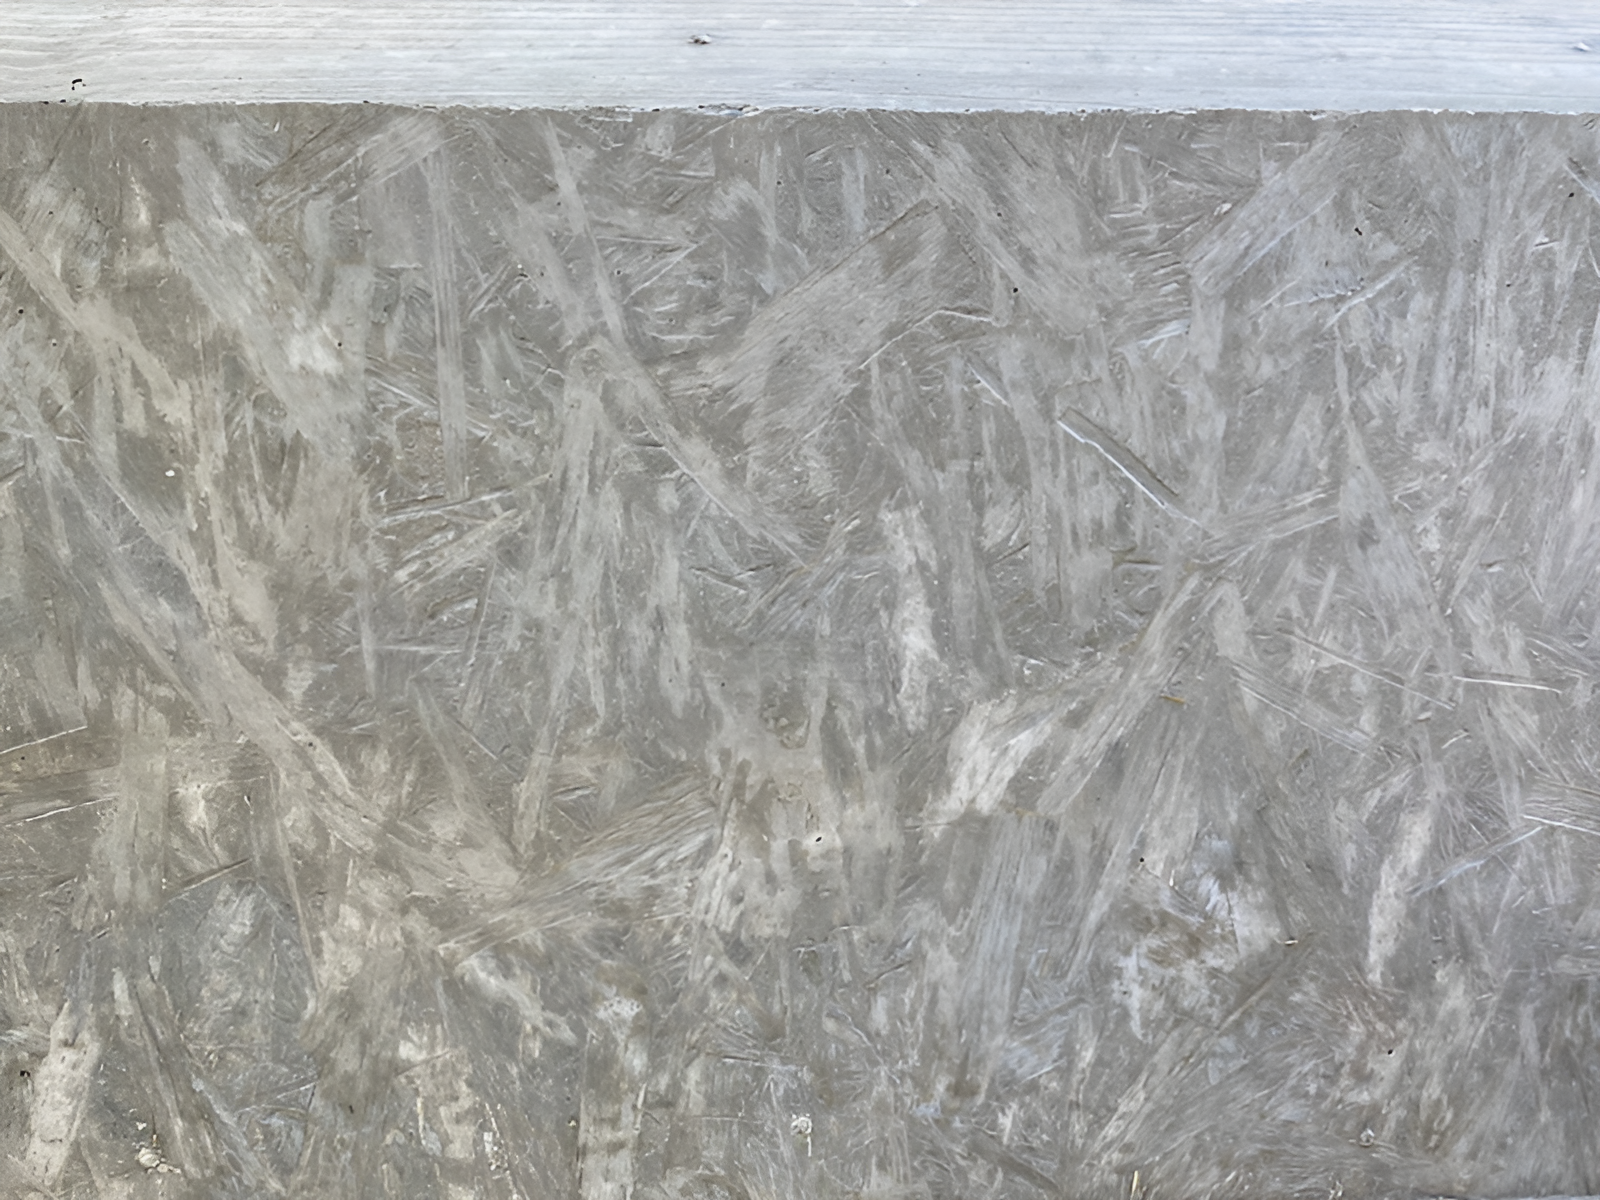
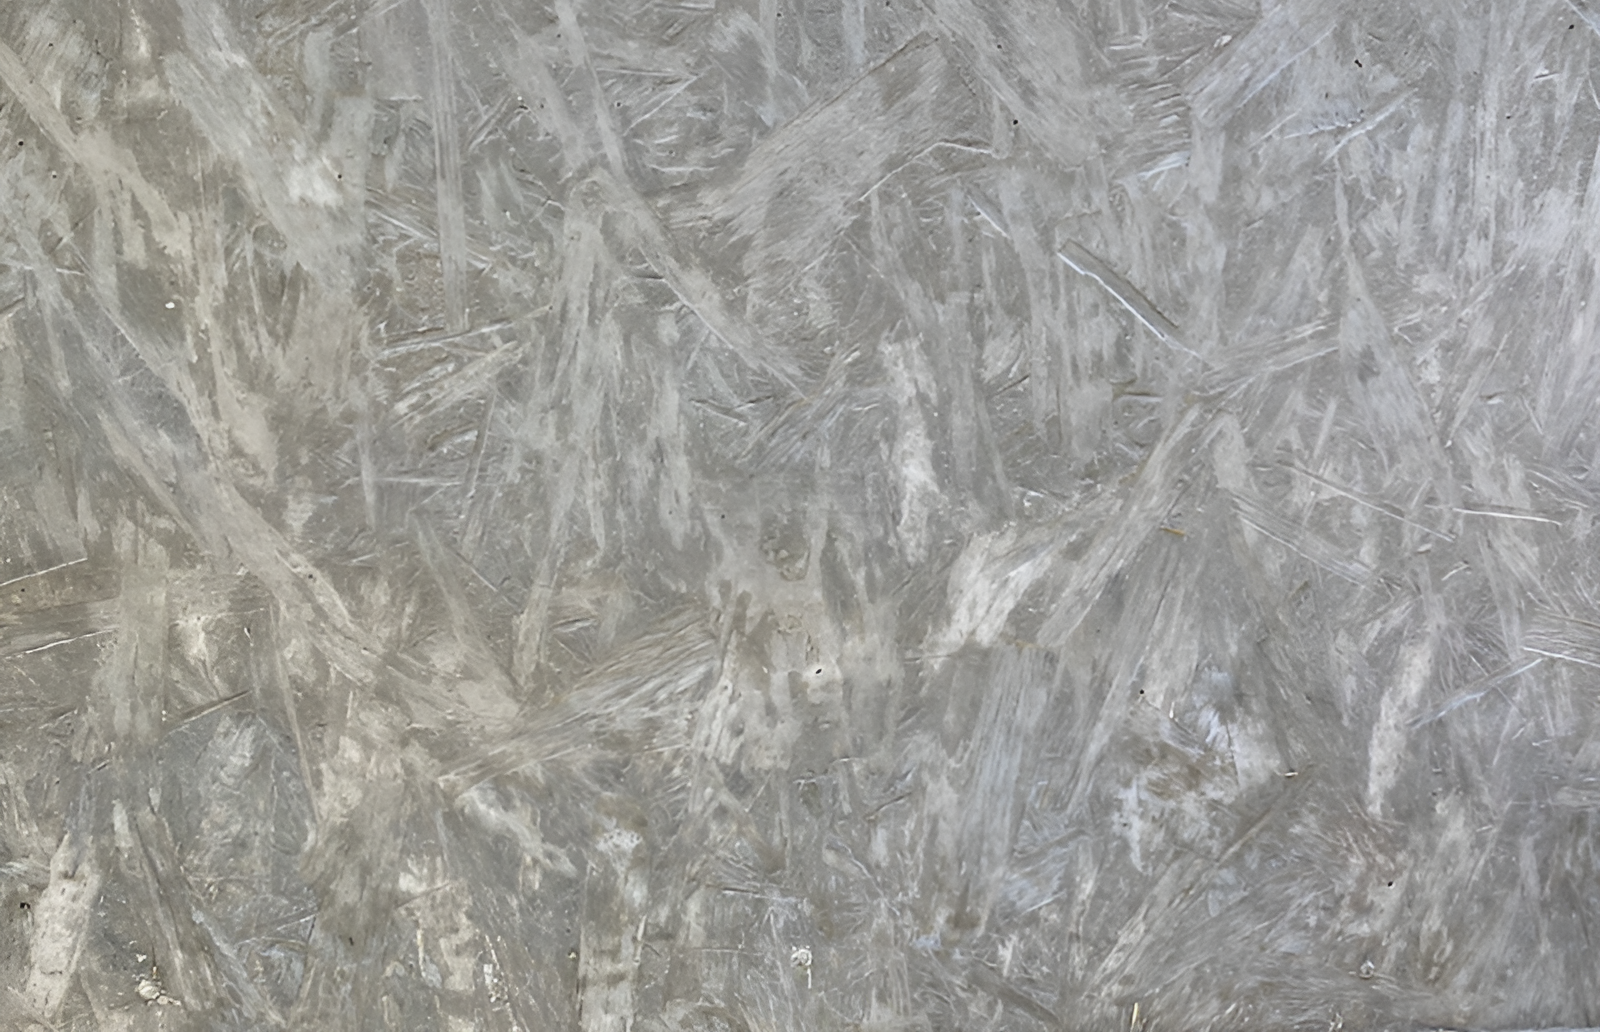
Hero heller + Raster entfernt, GMK-Foto Breitformat (scharf), OSB-Kachel ohne weissen Streifen

diff --git a/index.html b/index.html
@@ -42,8 +42,8 @@ tailwind.config = {
   .h-display{font-family:'Archivo',sans-serif;font-weight:900;letter-spacing:-.03em;line-height:.94;}
   .lab{font-family:'IBM Plex Mono',monospace;letter-spacing:.18em;text-transform:uppercase;}
   .hero-scrim{background:
-     linear-gradient(90deg, rgba(14,15,18,.80) 0%, rgba(14,15,18,.52) 34%, rgba(14,15,18,.10) 62%, rgba(14,15,18,0) 100%),
-     linear-gradient(0deg, rgba(14,15,18,.82) 0%, rgba(14,15,18,0) 38%);}
+     linear-gradient(90deg, rgba(14,15,18,.68) 0%, rgba(14,15,18,.40) 32%, rgba(14,15,18,.04) 60%, rgba(14,15,18,0) 100%),
+     linear-gradient(0deg, rgba(14,15,18,.72) 0%, rgba(14,15,18,0) 34%);}
   .tile-img{filter:grayscale(.32) contrast(1.05) brightness(.84);transition:filter .5s ease, transform .9s cubic-bezier(.2,.7,.2,1);}
   .group:hover .tile-img{filter:grayscale(0) contrast(1.08) brightness(.92);transform:scale(1.06);}
   .edge{border-color:rgba(255,255,255,.10);}
@@ -104,7 +104,6 @@ tailwind.config = {
 <section id="hero" class="relative w-full overflow-hidden min-h-[calc(100svh-68px)] flex">
   <img src="img/hero.png" alt="Tiefbau im Zürcher Oberland – Bagger und Bohrgerät an einem Hang" class="absolute inset-0 w-full h-full object-cover object-[60%_50%]" />
   <div class="absolute inset-0 hero-scrim"></div>
-  <div class="absolute inset-0 ov-grid opacity-60"></div>
   <div class="relative z-10 w-full max-w-7xl mx-auto px-6 flex flex-col justify-center">
     <div class="max-w-[760px]">
       <div class="lab text-[11px] text-signal mb-6 flex items-center gap-3 rv in">
@@ -181,7 +180,6 @@ tailwind.config = {
 
 <!-- ░░ GMK SYSTEM (signature USP) ░░ -->
 <section id="gmk" class="relative bg-ink2 border-y edge overflow-hidden py-20 md:py-28">
-  <div class="absolute inset-0 ov-grid opacity-50"></div>
   <div class="relative max-w-7xl mx-auto px-6 grid lg:grid-cols-2 gap-12 lg:gap-16 items-center">
     <div class="rv">
       <div class="inline-flex items-center gap-2 border border-signal/40 text-signal lab text-[10px] px-3 py-1.5 rounded-sm mb-7">
@@ -201,8 +199,8 @@ tailwind.config = {
       </div>
     </div>
     <div class="rv rv-d1">
-      <div class="relative rounded-sm overflow-hidden border edge aspect-[4/3]">
-        <img src="img/Header-GMKSystem17.png" alt="GMK-System Stützmauer" class="w-full h-full object-cover" />
+      <div class="relative rounded-sm overflow-hidden border edge aspect-[16/10]">
+        <img src="img/Header-GMKSystem17.png" alt="GMK-System Stützmauer" class="w-full h-full object-cover object-[50%_58%]" />
         <div class="absolute inset-0 bg-gradient-to-t from-ink/70 to-transparent"></div>
         <div class="absolute left-4 bottom-4 lab text-[10px] text-white/90">GMK-System · Stützmauerelemente</div>
       </div>
@@ -349,7 +347,6 @@ tailwind.config = {
 
 <!-- ░░ KONTAKT / CTA ░░ -->
 <section id="kontakt" class="relative bg-ink overflow-hidden py-20 md:py-28">
-  <div class="absolute inset-0 ov-grid opacity-40"></div>
   <div class="relative max-w-7xl mx-auto px-6 grid lg:grid-cols-12 gap-12">
     <div class="lg:col-span-6 rv">
       <div class="lab text-[11px] text-signal mb-5">07 — Kontakt</div>